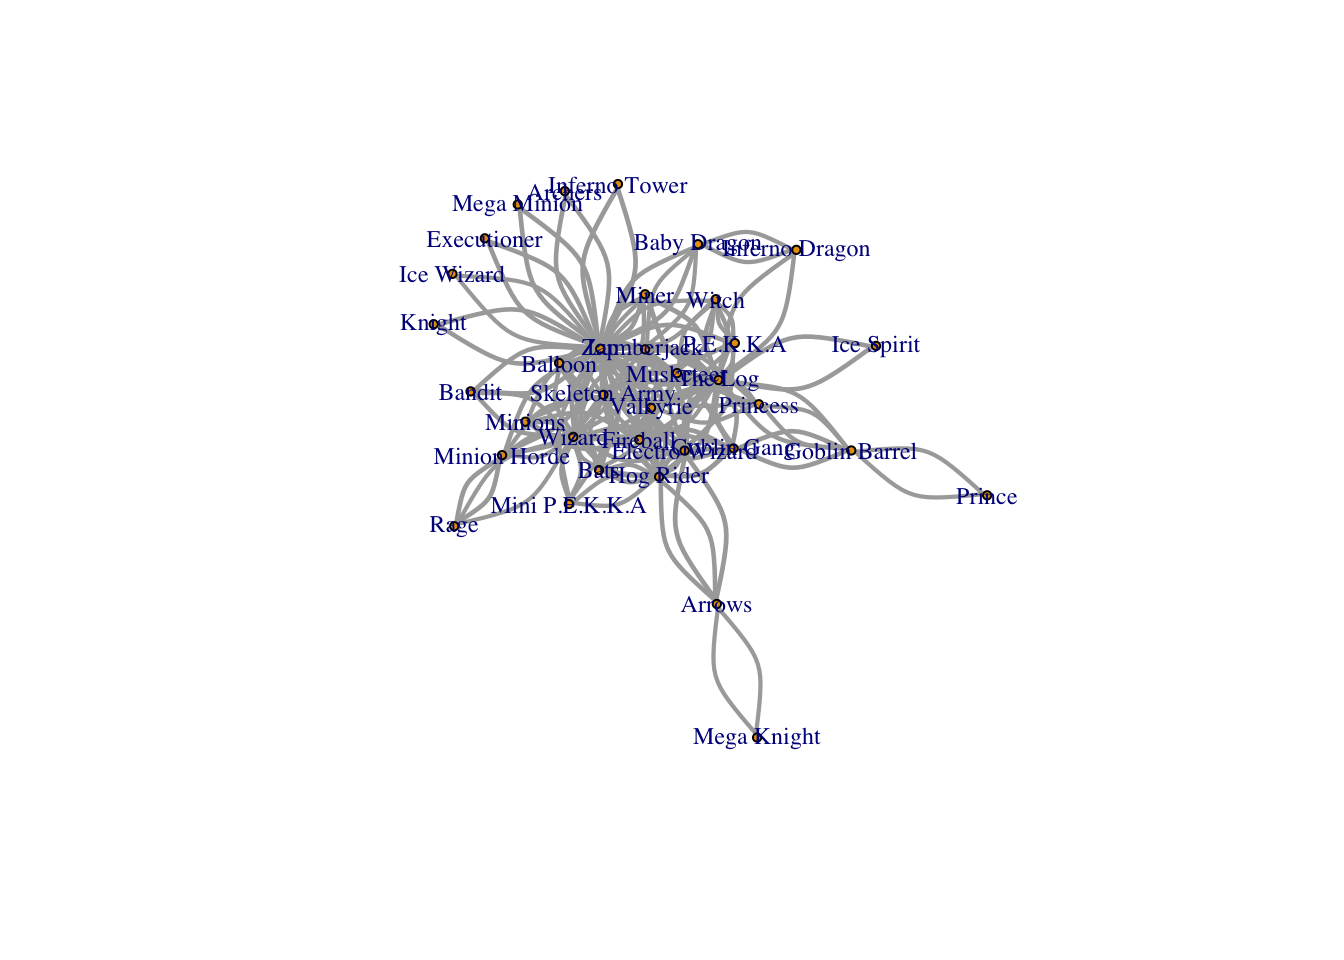
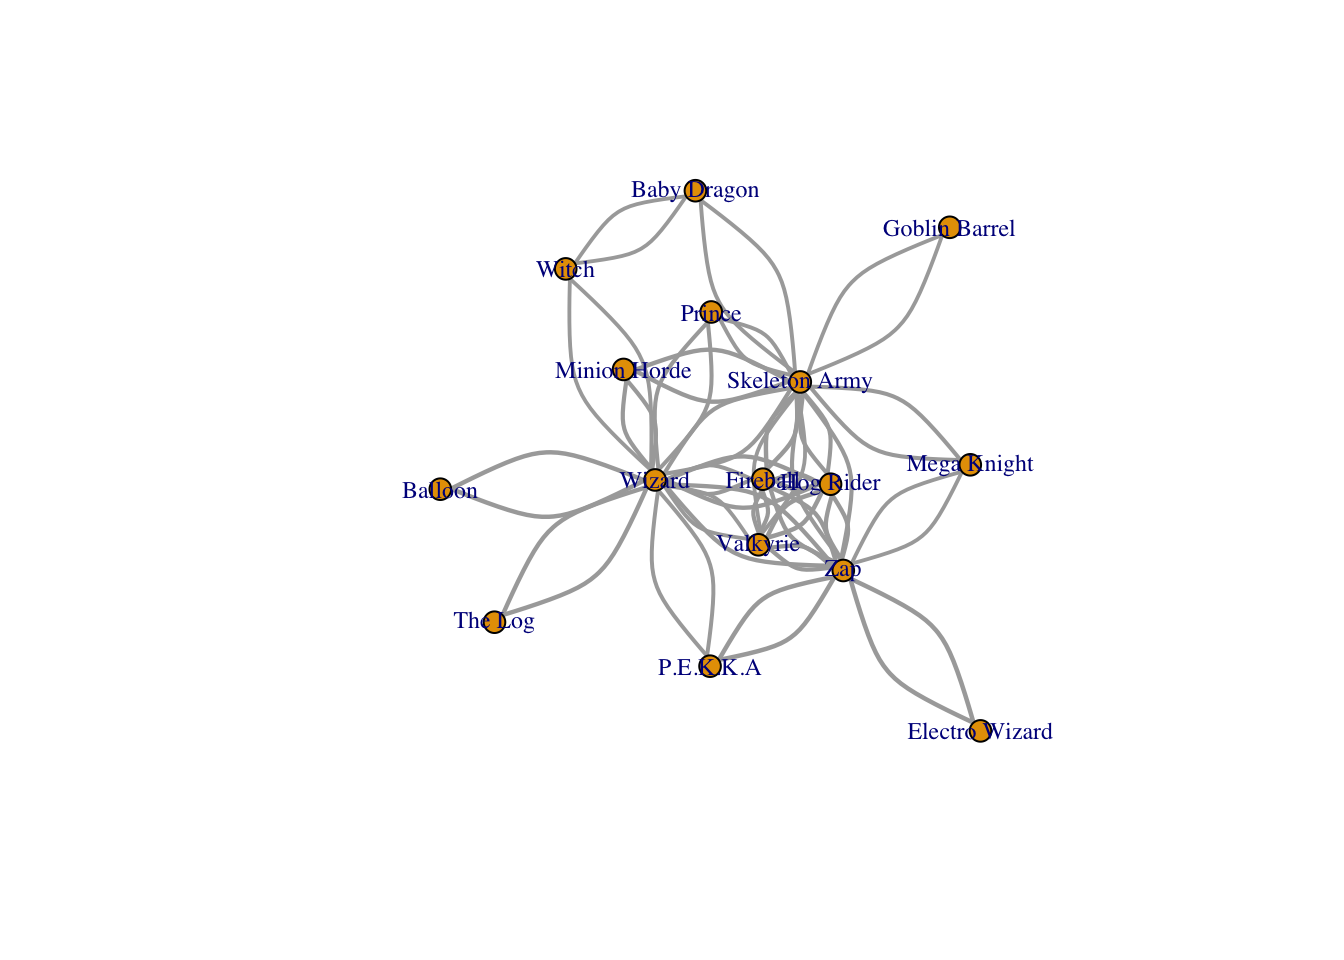
update start of class

Changed region(s): [[0.2812, 0.1875, 0.7812, 0.7812], [0.6562, 0.6562, 0.7812, 0.7812]]

diff --git a/kevineuyoque/clash_royale/ClashRoyaleDraft.html b/kevineuyoque/clash_royale/ClashRoyaleDraft.html
@@ -197,11 +197,9 @@ pre > code.sourceCode > span > a:first-child::before { text-decoration: underlin
 <span id="cb9-4"><a href="#cb9-4" aria-hidden="true" tabindex="-1"></a><span class="fu">diag</span>(clash_deck_ratebinary) <span class="ot">&lt;-</span> <span class="dv">0</span></span></code><button title="Copy to Clipboard" class="code-copy-button"><i class="bi"></i></button></pre></div>
 </div>
 <div class="cell">
-<div class="sourceCode cell-code" id="cb10"><pre class="sourceCode r code-with-copy"><code class="sourceCode r"><span id="cb10-1"><a href="#cb10-1" aria-hidden="true" tabindex="-1"></a><span class="fu">library</span>(tidyverse)</span>
-<span id="cb10-2"><a href="#cb10-2" aria-hidden="true" tabindex="-1"></a></span>
-<span id="cb10-3"><a href="#cb10-3" aria-hidden="true" tabindex="-1"></a><span class="co"># Shows all the cards available to use </span></span>
-<span id="cb10-4"><a href="#cb10-4" aria-hidden="true" tabindex="-1"></a><span class="co"># including if they have an evo and/or hero upgrade</span></span>
-<span id="cb10-5"><a href="#cb10-5" aria-hidden="true" tabindex="-1"></a>cards <span class="ot">&lt;-</span> <span class="fu">read_csv</span>(<span class="st">"clash_royale_cards_125.csv"</span>)</span></code><button title="Copy to Clipboard" class="code-copy-button"><i class="bi"></i></button></pre></div>
+<div class="sourceCode cell-code" id="cb10"><pre class="sourceCode r code-with-copy"><code class="sourceCode r"><span id="cb10-1"><a href="#cb10-1" aria-hidden="true" tabindex="-1"></a><span class="co"># Shows all the cards available to use </span></span>
+<span id="cb10-2"><a href="#cb10-2" aria-hidden="true" tabindex="-1"></a><span class="co"># including if they have an evo and/or hero upgrade</span></span>
+<span id="cb10-3"><a href="#cb10-3" aria-hidden="true" tabindex="-1"></a>cards <span class="ot">&lt;-</span> <span class="fu">read_csv</span>(<span class="st">"clash_royale_cards_125.csv"</span>)</span></code><button title="Copy to Clipboard" class="code-copy-button"><i class="bi"></i></button></pre></div>
 </div>
 <section id="introduction-what-is-clash-royale" class="level1" data-number="1">
 <h1 data-number="1"><span class="header-section-number">1</span> Introduction: What is Clash Royale?</h1>
@@ -241,9 +239,9 @@ pre > code.sourceCode > span > a:first-child::before { text-decoration: underlin
 <span id="cb11-5"><a href="#cb11-5" aria-hidden="true" tabindex="-1"></a></span>
 <span id="cb11-6"><a href="#cb11-6" aria-hidden="true" tabindex="-1"></a>network</span></code><button title="Copy to Clipboard" class="code-copy-button"><i class="bi"></i></button></pre></div>
 <div class="cell-output cell-output-stdout">
-<pre><code>IGRAPH 65d95e6 UN-- 69 1572 -- 
+<pre><code>IGRAPH 89bd799 UN-- 69 1572 -- 
 + attr: name (v/c), decks (e/n), wins (e/n), winrate (e/n)
-+ edges from 65d95e6 (vertex names):
++ edges from 89bd799 (vertex names):
  [1] Hog Rider     --Zap Valkyrie      --Zap Giant Skeleton--Zap
  [4] Baby Dragon   --Zap Mini P.E.K.K.A--Zap Witch         --Zap
  [7] Musketeer     --Zap Balloon       --Zap Arrows        --Zap
@@ -322,7 +320,7 @@ pre > code.sourceCode > span > a:first-child::before { text-decoration: underlin
 <div class="sourceCode cell-code" id="cb16"><pre class="sourceCode r code-with-copy"><code class="sourceCode r"><span id="cb16-1"><a href="#cb16-1" aria-hidden="true" tabindex="-1"></a><span class="co"># Filtered more decks since network too dense</span></span>
 <span id="cb16-2"><a href="#cb16-2" aria-hidden="true" tabindex="-1"></a><span class="co"># show only strongest edges</span></span>
 <span id="cb16-3"><a href="#cb16-3" aria-hidden="true" tabindex="-1"></a>pair_data_small <span class="ot">&lt;-</span> pair_data <span class="sc">|&gt;</span></span>
-<span id="cb16-4"><a href="#cb16-4" aria-hidden="true" tabindex="-1"></a>  <span class="fu">filter</span>(decks <span class="sc">&gt;</span> <span class="dv">150</span>, winrate <span class="sc">&gt;</span> <span class="fl">0.52</span>)</span>
+<span id="cb16-4"><a href="#cb16-4" aria-hidden="true" tabindex="-1"></a>  <span class="fu">filter</span>(decks <span class="sc">&gt;</span> <span class="dv">320</span>, winrate <span class="sc">&gt;</span> <span class="fl">0.47</span>)</span>
 <span id="cb16-5"><a href="#cb16-5" aria-hidden="true" tabindex="-1"></a></span>
 <span id="cb16-6"><a href="#cb16-6" aria-hidden="true" tabindex="-1"></a>network_small <span class="ot">&lt;-</span> <span class="fu">graph_from_data_frame</span>(pair_data_small, <span class="at">directed =</span> <span class="cn">FALSE</span>)</span>
 <span id="cb16-7"><a href="#cb16-7" aria-hidden="true" tabindex="-1"></a></span>
@@ -332,7 +330,7 @@ pre > code.sourceCode > span > a:first-child::before { text-decoration: underlin
 <span id="cb16-11"><a href="#cb16-11" aria-hidden="true" tabindex="-1"></a><span class="co"># plot</span></span>
 <span id="cb16-12"><a href="#cb16-12" aria-hidden="true" tabindex="-1"></a><span class="fu">plot</span>(network_small,</span>
 <span id="cb16-13"><a href="#cb16-13" aria-hidden="true" tabindex="-1"></a>     <span class="at">layout =</span> lay,</span>
-<span id="cb16-14"><a href="#cb16-14" aria-hidden="true" tabindex="-1"></a>     <span class="at">vertex.size =</span> <span class="dv">3</span>,</span>
+<span id="cb16-14"><a href="#cb16-14" aria-hidden="true" tabindex="-1"></a>     <span class="at">vertex.size =</span> <span class="dv">8</span>,</span>
 <span id="cb16-15"><a href="#cb16-15" aria-hidden="true" tabindex="-1"></a>     <span class="at">vertex.label.cex =</span> <span class="fl">0.75</span>,</span>
 <span id="cb16-16"><a href="#cb16-16" aria-hidden="true" tabindex="-1"></a>     <span class="at">edge.width =</span> <span class="fu">E</span>(network_small)<span class="sc">$</span>winrate <span class="sc">*</span> <span class="dv">4</span>)</span></code><button title="Copy to Clipboard" class="code-copy-button"><i class="bi"></i></button></pre></div>
 <div class="cell-output-display">
@@ -343,6 +341,10 @@ pre > code.sourceCode > span > a:first-child::before { text-decoration: underlin
 </div>
 </div>
 </div>
+<p>Here we can see a 16 node network</p>
+<ul>
+<li>16 cards are used</li>
+</ul>
 </section>
 <section id="why-use-a-network" class="level2" data-number="2.4">
 <h2 data-number="2.4" class="anchored" data-anchor-id="why-use-a-network"><span class="header-section-number">2.4</span> Why use a network?</h2>
